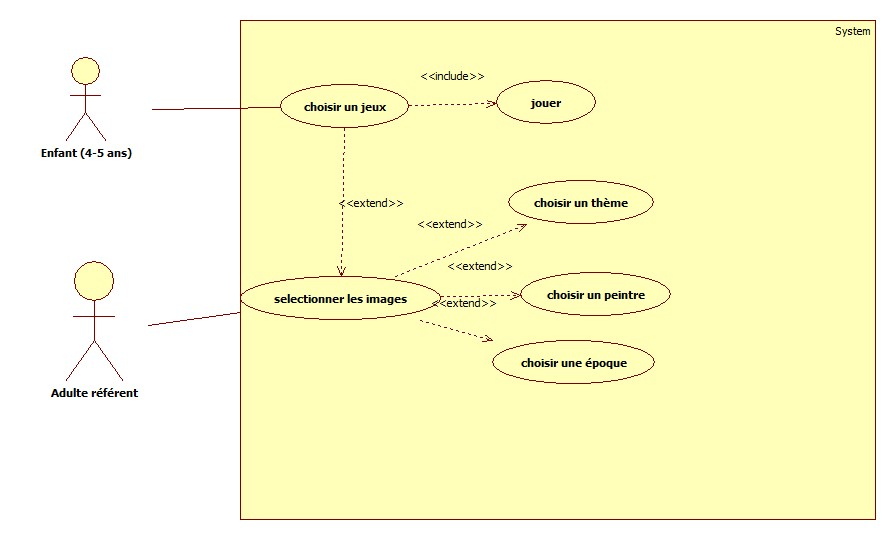
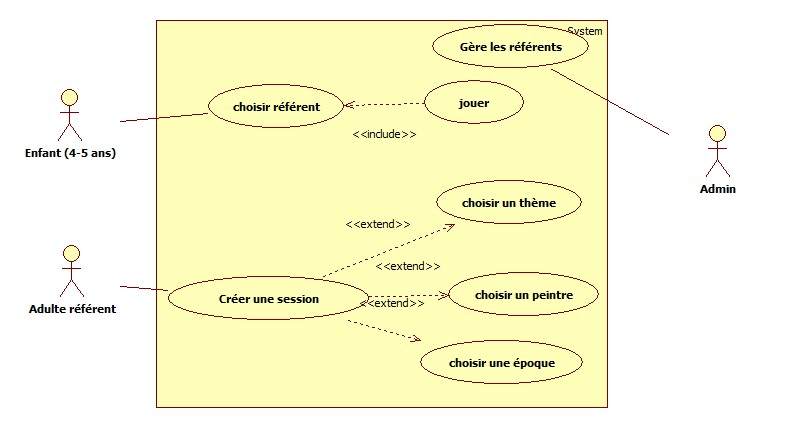
updae

diff --git a/DOC/Etude/d1.tex b/DOC/Etude/d1.tex
@@ -49,47 +49,42 @@ Pour ce projet, nous allons devoir réaliser un site responsive qui puisse être
 Enfants et adultes référents
 \chapter{Questions à poser au client}
 \begin{itemize}
-\item C'est qui cet adulte référent? Plusieurs?
-\item Il choisi des images pour tout le monde?
-\item Admin, acteur?
-\item Si c'est côté client ou côté administrateur?
-\item Niveau des enfants 4, 5 ans? (les enfants ne savent pas lire)
-\item De quoi disposons comme information?
-\item Referent est il toujours present lorsque l'enfant joue?
-\item Referent a un jeux ou plusieurs atcifs simultanement?
+\item C'est qui cet adulte référent?\\
+Un adulte référent est un utilisateur (parent ou enseignant) qui permet de créer différentes sessions. Une session est un ensemble d'image préalablement choisis à partir de différents filtre.
+\item Faut-il un administrateur?\\
+L'administrateur permet de gérer les adultes référents.
+\item Niveau des enfants 4, 5 ans?\\
+Les enfants ne savent pas lire ni écrire. Il faut donc éviter de leur faire lire des textes ni écrire au clavier.
+\item Un référent est il toujours présent lorsque l'enfant joue?\\
+Non, l'enfant peut jouer de chez lui mais il sera quand même au moins guidé par ses parents.
+\item Référent a un jeux ou plusieurs actifs simultanément?\\
+Le référent peut créer plusieurs sessions mais seulement une session peut être activé à la fois (ce qui permet à l'enfant d'arriver directement sur la bonne session sans la sélectionner).
 \end{itemize}
 \chapter{Idées}
 Liste de jeux ;
 \begin{itemize}
-\item Jeux 94 (avec images?)
+\item Jeux 94
 \item Jeux du pendu
 \item Mélange pour facilité (de jeux)
-\item Mémo et puzzle (compulsory)
+\item Mémo et puzzle
 \end{itemize}
 
 \medbreak
 Technologies :
 \begin{itemize}
-\item Utilisation d'un "text to speech" : API Goolgle
+\item Utilisation d'un "text to speech" : API Google
 \item Utilisation d'un "speech to text" : pas d'API correcte trouvée
 \item Base SQL : MySql
-\item Utilisation d'un Framework PHP MVC : .codeigniter
+\item Utilisation d'un Framework PHP MVC : Laravel
 \item Utilisation Framework CSS : Bootstrap
 \end{itemize}
 
 \medbreak
-Fonctionnement global (prévison) :
-\\Page d'accueil : on retrouve les images de profile des référents ayant une session actives de jeux.
-L'enfant clique sur sur l'image de son référent et arrive dans le jeux sélectionné par celui-ci.
-Le référant peut se connecter afin de créer des sessions de jeux et les activer, les supprimer.
-%\listoffigures
-%\addcontentsline{toc}{chapter}{Table des illustrations}
-%\renewcommand{\bibname}{Références}
-%\begin{thebibliography}{9}
-%\bibitem{lamport94}
-% Arte Reportage (arte futur).
-%Disponible sur http://www.arte.tv/guide/fr/plus7/,
-%2014.
-%\end{thebibliography}
-%\addcontentsline{toc}{chapter}{Références}
+Fonctionnement global (prévision) :
+\\Page d'accueil : on retrouve les images de profil des référents ayant une session active de jeux.
+L'enfant clique sur l'image de son référent et arrive dans le jeux sélectionné par celui-ci.
+Le référent peut se connecter afin de créer des sessions de jeux et les activer, les supprimer.\\
+
+
+
 \end{document}
